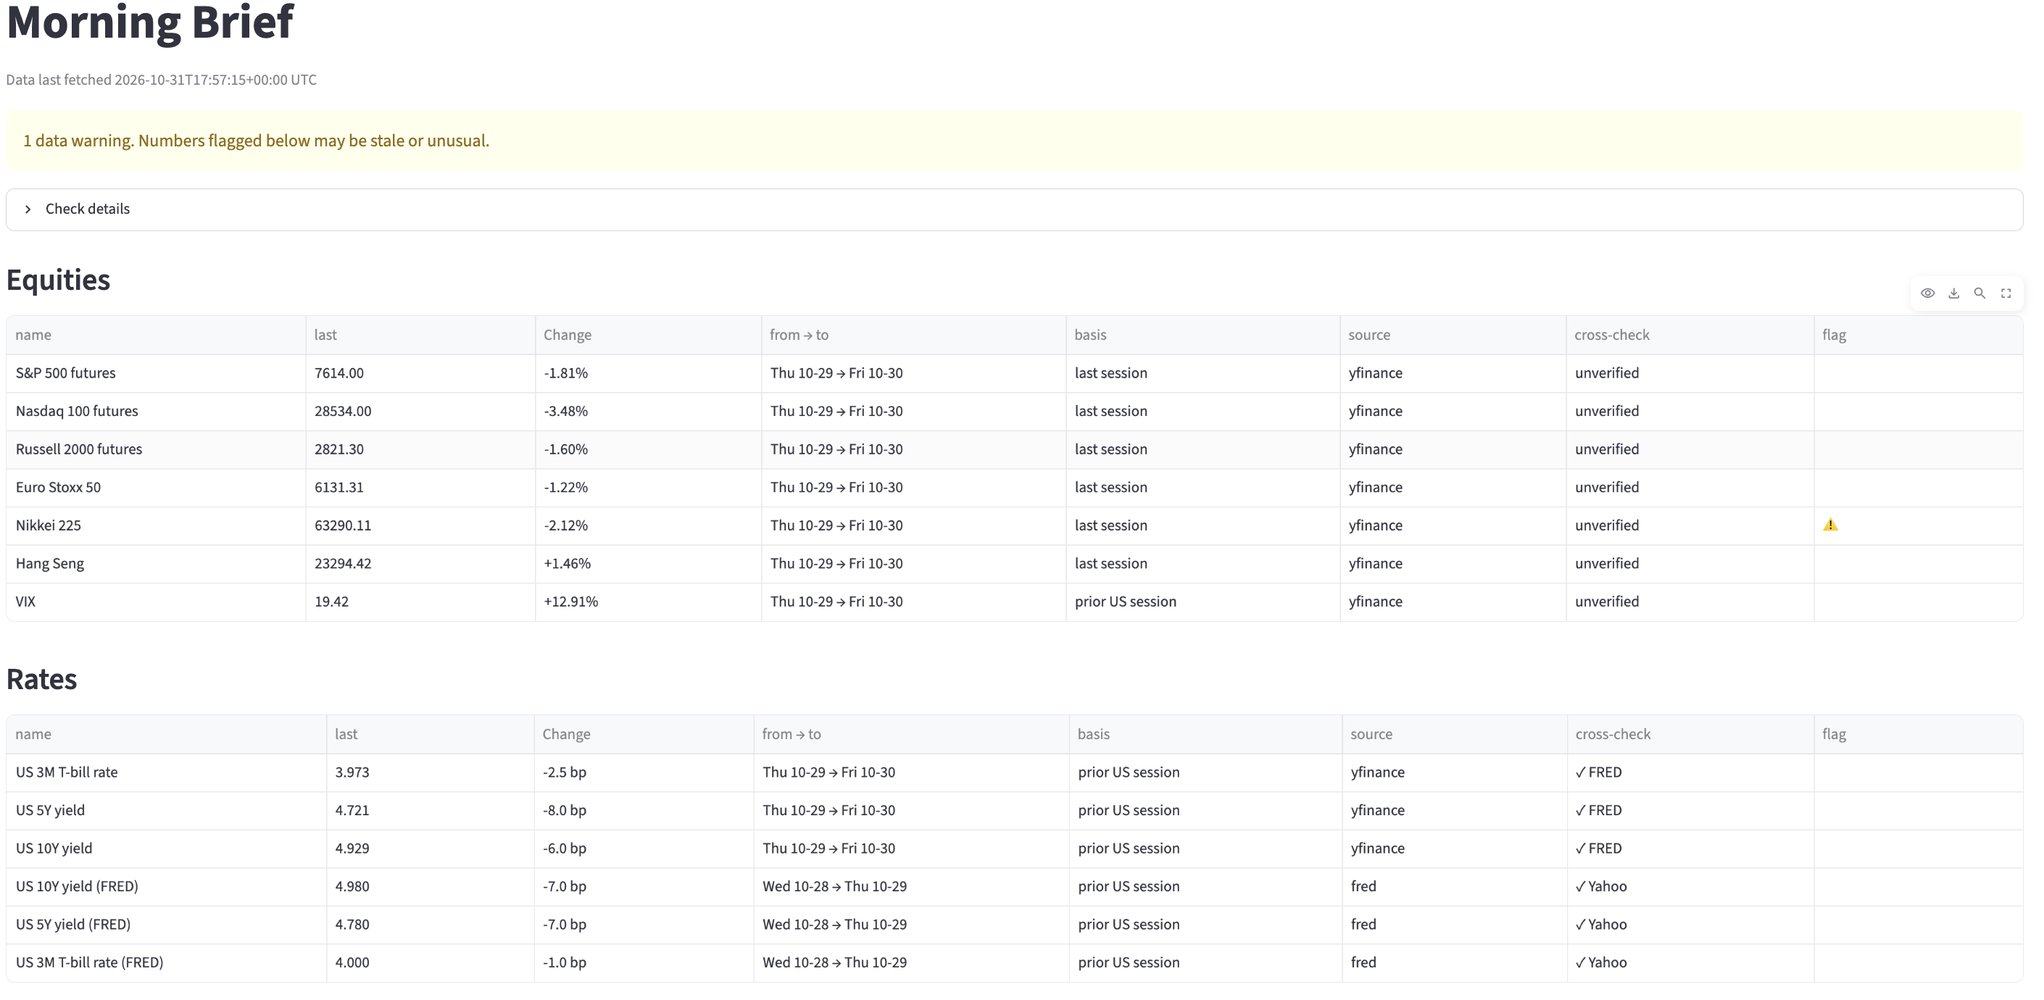
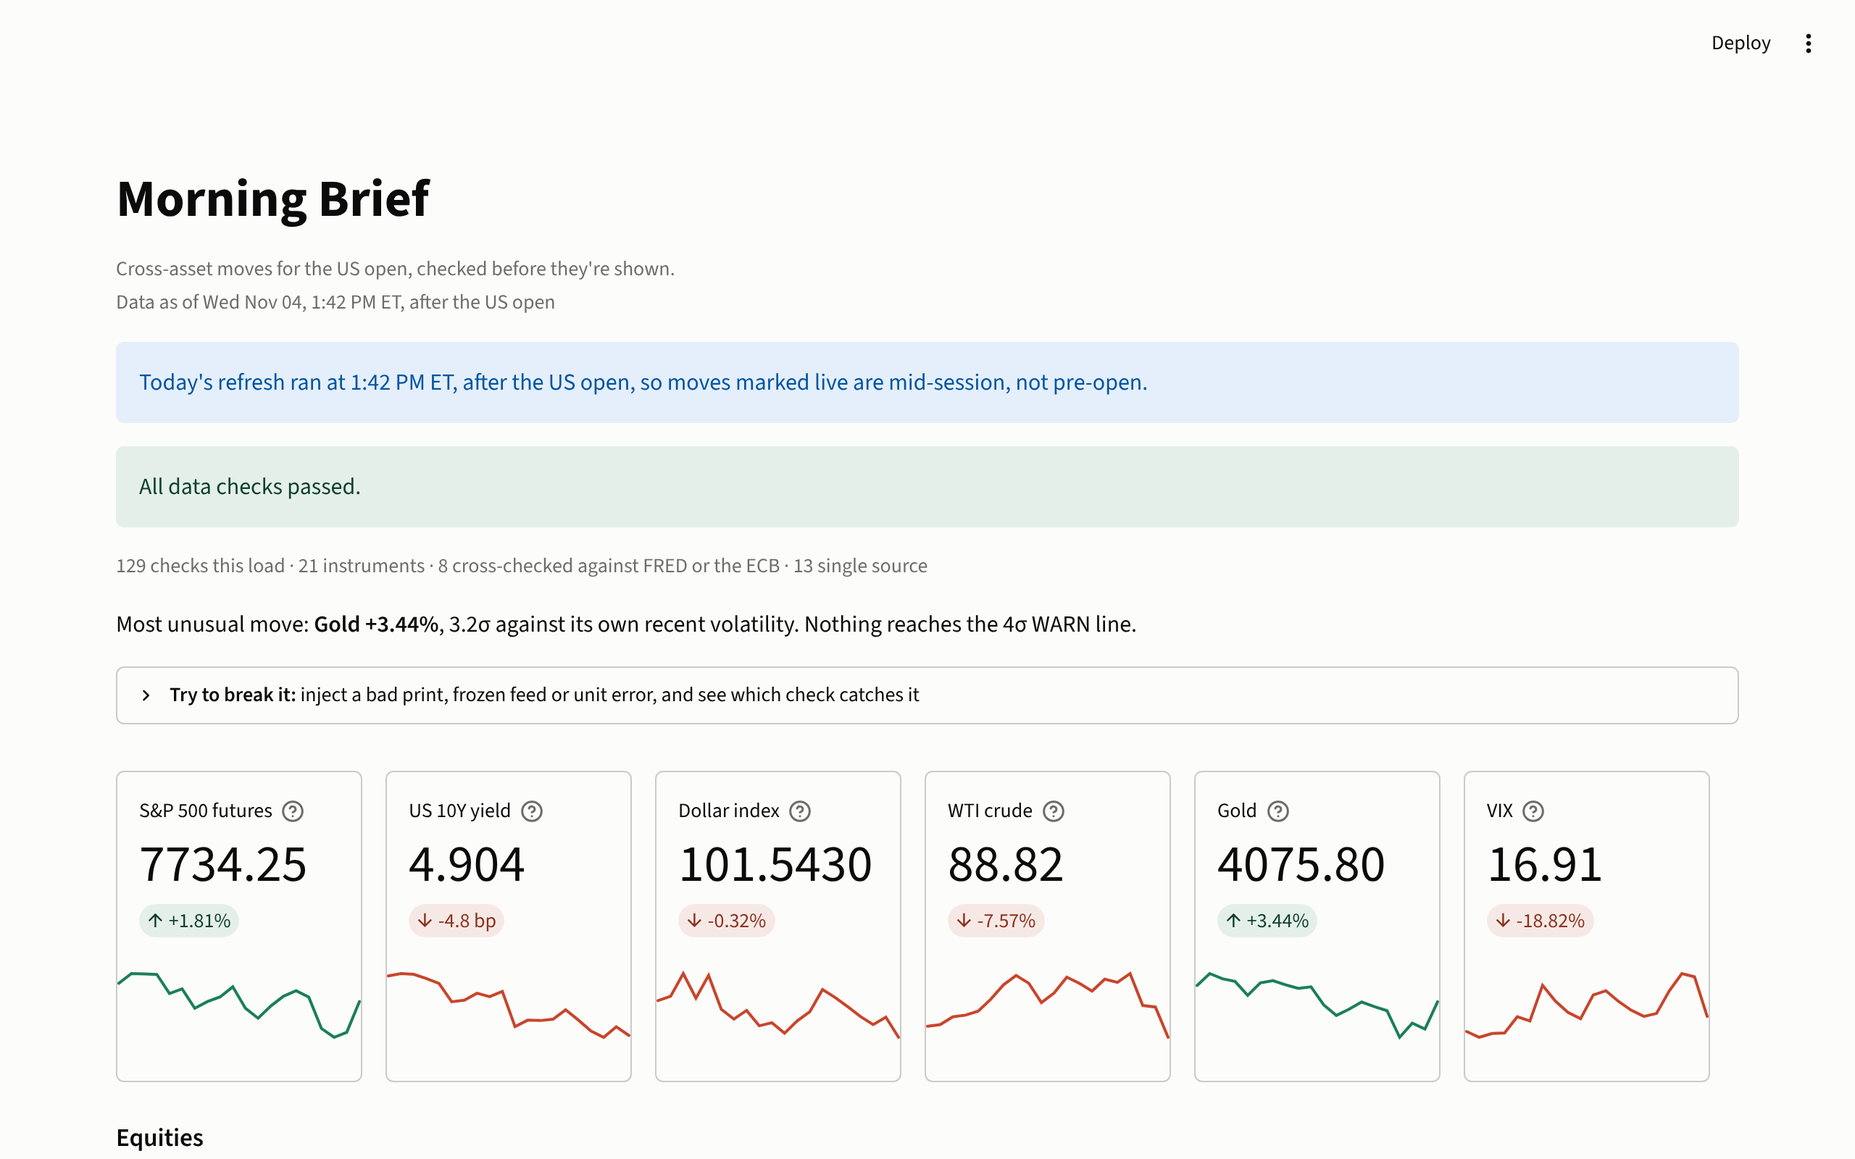
Rewrite the README for a visitor, with a demo GIF, diagram and decisions index
Opens with what the page is for and a GIF of a fault being caught, adds a
Mermaid diagram and a reliability section, fixes the sentence that
contradicted the build notes, and indexes the judgment calls. The VIX footer
now says the notice is the text FRED requires. Also records the decision to
keep the database in git, with measured growth.

Claude-Session: https://claude.ai/code/session_01S9fLmoADUZCuL7imkmqZpF

diff --git a/tests/test_docs.py b/tests/test_docs.py
@@ -1,0 +1,33 @@
+"""The README and build notes should point at things that exist and say what the code does."""
+import re
+from pathlib import Path
+
+ROOT = Path(__file__).resolve().parents[1]
+README = (ROOT / "README.md").read_text()
+NOTES = (ROOT / "docs" / "build-notes.md").read_text()
+
+
+def test_readme_links_and_images_exist():
+    for target in re.findall(r"\]\(((?!https?://)[^)#]+)\)", README):
+        assert (ROOT / target).exists(), target
+
+
+def test_readme_no_longer_claims_most_bugs_came_from_real_data():
+    assert "Most bugs only appeared on real data" not in README
+
+
+def test_judgment_index_points_at_real_entries():
+    entries = {int(n) for n in re.findall(r"^## (\d+)\. ", NOTES, re.M)}
+    index = NOTES[NOTES.index("## Judgment calls at a glance"):NOTES.index("## 1. ")]
+    cited = {int(n) for cell in re.findall(r"\| ([\d, ]+) \|\n", index) for n in cell.split(",")}
+    assert cited and cited <= entries
+
+
+def test_build_notes_are_numbered_in_order():
+    numbers = [int(n) for n in re.findall(r"^## (\d+)\. ", NOTES, re.M)]
+    assert numbers == list(range(1, len(numbers) + 1))
+
+
+def test_vix_notice_says_it_is_freds_required_text():
+    app = (ROOT / "app.py").read_text()
+    assert "as FRED requires it to be shown" in app and "Reprinted with permission" in app

diff --git a/app.py b/app.py
@@ -241,6 +241,7 @@ with st.expander("How the data checks work"):
 """)
 st.caption("Second-source data retrieved from FRED, Federal Reserve Bank of St. Louis, which does not endorse this page. "
            "VIX: Chicago Board Options Exchange, CBOE Volatility Index [VIXCLS]. "
+           "Copyright notice for this series, as FRED requires it to be shown: "
            "Copyright, 2016, Chicago Board Options Exchange, Inc. Reprinted with permission.")
 st.caption("Built from free public sources, not production market data. "
            "[Source code and build notes](https://github.com/KC31415/morning-brief)")

diff --git a/README.md b/README.md
@@ -4,23 +4,29 @@
 
 **Live app:** https://kechun-morning-brief.streamlit.app
 
-A pre-open market dashboard that puts the latest cross-asset moves and a short, sourced news brief on one page, and **tells you when its own data is wrong.**
+A pre-open cross-asset dashboard that **tells you when its own data is wrong**: stale, frozen, implausible, or disagreeing with a second source. Every number shows where it came from, when, and whether anything vouches for it.
 
-This is a public rebuild of a dashboard I built during my 2026 sales & trading internship, which 30+ traders and salespeople used every morning. That version had one real weakness: when a data source arrived late or incomplete, the page still loaded and looked normal. This version is built around fixing that. No code or data from the original is used here; everything runs on free public sources.
+![The page catching a simulated +50% bad print in gold](docs/demo.gif)
+
+## Why I built this
+
+During my 2026 sales & trading internship I built a morning dashboard that 30+ traders and salespeople used every day. Its one real weakness: when a data source arrived late or incomplete, the page still loaded and looked normal. Nobody can tell a stale number from a fresh one by looking at it.
+
+This is a public rebuild around fixing that. No code or data from the original is used; everything runs on free public sources with reuse terms I've checked.
+
+## What a visitor sees
+
+- **Data as of**, in New York time, labeled pre-open or after the open, with a yellow banner if today's pre-open refresh hasn't run by 8:00 AM ET and a red one if the data is more than a weekday old
+- **A status banner and what it covers,** e.g. "129 checks · 21 instruments · 8 cross-checked against FRED or the ECB · 13 single source"
+- **The day's most unusual move**, measured against that instrument's own volatility with the sanity check's own number, so it can't disagree with the flags
+- **Try to break it:** first a real disagreement (Yahoo vs FRED on the VIX, Feb 6, 2026) replayed through the real check, then inject your own bad print, frozen feed, stale ticker or unit error into an in-memory copy
+- **Latest change** for 21 instruments across equities, rates, FX and commodities, each with from → to dates, basis (live, last session or prior US session), source and cross-check
+- **How unusual is today?** every instrument ranked in robust standard deviations
+- **What's scheduled today** from official calendars (BEA, Census, FOMC, ECB, Treasury), stating plainly that BLS isn't covered
+- **Overnight news:** 0–5 LLM bullets from official feeds, each linked to the headlines it cites
+- **Track record:** every logged refresh, when it ran, what started it, and every WARN or FAIL the checks have raised
 
 ![screenshot](docs/screenshot.png)
-
-## What it does
-
-- **Latest change** for 21 instruments across equities, rates, FX and commodities (% change for prices, basis points for yields), each labeled with its from → to dates and basis: live, last session or prior US session
-- **Source and cross-check** on every row, showing the second source's value and date, or "single source"
-- **Data status banner** at the top: green if every check passes, yellow for warnings, red if something failed, with details on exactly which series and why
-- **Stale-page banner:** red if the last fetch is more than one business day old, whatever the checks say
-- **News brief:** 0–5 LLM-written bullets on what matters for the open, each linked to the headlines it came from
-- **How unusual is today?** every instrument ranked by its latest move in robust standard deviations, with the WARN and FAIL thresholds marked
-- **What's scheduled today:** official release, meeting and auction calendars in New York time, stating when a calendar couldn't load or a time wasn't published
-- **Try to break it:** inject a bad print, frozen feed, stale ticker or ×10 yield into an in-memory copy of the data and see which check catches it, or that none does
-- **Runs itself** every weekday before the open via GitHub Actions, opening a GitHub issue on any FAIL and closing it after the next clean run
 
 ## Data checks
 
@@ -28,14 +34,14 @@ Every refresh runs these before anything is displayed:
 
 | Check | What it catches | Example |
 |---|---|---|
-| Freshness | A feed that didn't update | Copper's latest close is 3 business days old → FAIL |
+| Freshness | A feed that didn't update | Copper's latest close is 3 sessions old → FAIL |
 | Completeness | A ticker with no stored data, too little history, or zero or missing prices | New ticker has no rows → FAIL; only 1 row → WARN |
 | Gaps | Holes in recent history | 5 missing sessions in the last 60 → WARN; market holidays don't count |
 | Sanity | Moves too large to be real | A 1%-vol asset "moves" 50% → FAIL, almost certainly bad data |
 | Frozen feed | A price that hasn't changed in two weeks | Last 10 daily changes all zero → FAIL |
 | Reconciliation | Two sources disagreeing | Yields, VIX, USD/JPY, GBP/USD and WTI vs FRED; EUR/USD vs the ECB. 10Y differs by ≥15bp → FAIL |
 
-Results are stored in a `check_runs` table, so I can query how often each feed has problems:
+Tolerances were set from measured gaps between the sources (build notes 12 and 21), not picked by hand. Results go into a `check_runs` table:
 
 ```sql
 SELECT ticker, check_name, COUNT(*) AS failures
@@ -43,25 +49,58 @@ FROM check_runs WHERE status = 'FAIL'
 GROUP BY 1, 2 ORDER BY failures DESC;
 ```
 
+## How it works
+
+```mermaid
+flowchart LR
+    subgraph trigger["Every weekday morning"]
+        W["Cloudflare Worker<br/>11:05 + 11:35 UTC"] -->|workflow_dispatch| G
+        C["GitHub cron 11:21<br/>(backup)"] --> G
+        G{"should_refresh.py<br/>already ran today?"}
+    end
+    G -->|first run only| R
+    subgraph pipeline["scripts/refresh.py"]
+        R["ingest.py<br/>Yahoo · FRED · ECB"] --> DB[("SQLite<br/>prices · check_runs<br/>refresh_runs · schedules")]
+        DB --> K["checks.py<br/>6 checks"]
+        K --> DB
+        N["news.py → summarize.py<br/>official RSS → cited bullets"]
+        S["schedules.py<br/>official calendars"] --> DB
+    end
+    K -->|any FAIL| I["GitHub issue<br/>(alert.py)"]
+    pipeline -->|commit data| GH["GitHub repo"]
+    pipeline -->|ping, or /fail| HC["Healthchecks.io<br/>emails if no ping by ~12:20 UTC"]
+    GH --> APP["Streamlit page<br/>app.py"]
+```
+
+| File | Role |
+|---|---|
+| `scripts/refresh.py` | Runs the pipeline once |
+| `src/morning_brief/checks.py` | The six checks; `run_all` is what the page and the demo both call |
+| `src/morning_brief/runs.py` | Pre-open timing, the refresh guard, the as-of label |
+| `src/morning_brief/demo.py`, `incidents.py` | Simulated faults, and the real VIX disagreement replay |
+| `src/morning_brief/history.py` | The track record |
+| `ops/scheduler/` | The Cloudflare Worker trigger and its setup steps |
+| `.github/workflows/refresh.yml` | Weekday refresh, guard, alert and heartbeat |
+| `.github/workflows/ci.yml` | Tests on the latest versions and on Streamlit 1.51, on every push and weekly |
+
+## Reliability
+
+GitHub's scheduled trigger missed the first three weekdays and then started 7h20m late, so the refresh now has three triggers and an outside monitor:
+
+- A **Cloudflare Worker** calls `workflow_dispatch` (which has started every time it's been called here) at 11:05 and 11:35 UTC; GitHub's cron at 11:21 is a backup.
+- A **guard step** lets the first automatic run of the New York day refresh and stops the rest; `concurrency` stops two runs racing on `git push`.
+- **Healthchecks.io** emails if no refresh pings by about 12:20 UTC, so a run that never starts is noticed that morning. A run that fails its checks opens a GitHub issue, which closes after the next clean run.
+- The **page itself** warns when today's pre-open refresh is missing or ran after the open.
+
+The Worker and Healthchecks need a one-time setup with my accounts ([`ops/scheduler/README.md`](ops/scheduler/README.md)); until that's done, GitHub's cron is the only trigger and the page's own banner is the only alarm.
+
 ## LLM summary guardrails
 
 - The model sees only the headlines passed in and is told not to add outside facts
 - Every bullet must cite headline IDs; bullets citing IDs that were never sent are dropped automatically
 - Prompts and raw responses are saved so summaries can be reviewed afterward
 - With no API key or on any error, the page falls back to raw headlines instead of breaking
-
-## How it works
-
-```
-scripts/refresh.py            runs the pipeline once
-  ingest.py                   yfinance + FRED + ECB -> one table
-  storage.py                  SQLite (prices, check_runs)
-  checks.py                   data quality checks
-  news.py / summarize.py      RSS headlines -> cited LLM bullets
-app.py                        Streamlit dashboard
-.github/workflows/refresh.yml weekday pre-open schedule
-.github/workflows/ci.yml      tests on every push
-```
+- Nothing else on the page uses an LLM: the headline move, the schedule and the checks are all computed
 
 ## Run it locally
 
@@ -75,16 +114,19 @@ pytest -q
 
 ## Known limitations
 
-- Freshness and gap checks use market holiday calendars matched to what each source publishes, but sources don't follow them perfectly: Yahoo's Euro Stoxx 50 skipped about 7 days in two years that Xetra's calendar counts as sessions, and FRED rates can skip or include Good Friday. One-off days can still WARN.
-- yfinance triggers a pandas deprecation warning (`sort_index(inplace=True)`) on every ticker. It clutters the log but breaks nothing today; it may fail once pandas removes that keyword.
-- Free data sources have delays and occasional bad prints. That is part of why the checks exist, but this is not production market data.
-- Sanity thresholds (4 and 10 standard deviations) are judgment calls, not tuned.
+- **BLS isn't covered:** its site returns 403 to automated requests, so CPI and jobs reports are missing from the schedule. The page says so every day.
+- **13 of 21 instruments are single source.** Nikkei's FRED series and Stooq would add more, but their terms don't allow redistribution on a public page (build note 21).
+- Freshness and gap checks use market holiday calendars matched to what each source publishes, but sources don't follow them perfectly: Yahoo's Euro Stoxx 50 skipped about 7 days in two years that Xetra counts as sessions.
+- Sanity thresholds (4 and 10 standard deviations) are judgment calls, not tuned on enough live history yet.
+- Free data sources have delays and occasional bad prints. That's part of why the checks exist, but this is not production market data.
 - I check LLM summaries by reading them against the cited headlines, not with an automated accuracy test.
 
-## What I'd do differently / next
+## What I learned / what's next
 
-The starter code passed all 21 of its tests and still couldn’t finish a real refresh: the tests used timezone-free times, and production didn’t. Since then I test with the same kinds of inputs the code sees in production, and I run against live data early. Next I’d tune the sanity thresholds on more live history, since right now they’re judgment calls. Reading the AI summaries by hand taught me that citation checks prove a headline exists, not that it supports the bullet. And I’d look for a licensed news source, because sticking to official feeds with clear reuse terms often leaves the brief empty.
+The starter code passed all 21 of its tests and still couldn't finish a real refresh: the tests used timezone-free times, and production didn't. Since then I test with the same kinds of inputs the code sees in production, and run against live data early. Some bugs only appeared on live data, like a crash when the API response started with a thinking block instead of text; most were found by testing with production-shaped inputs or by reviewing the code and the rendered page. Reading the AI summaries by hand taught me that citation checks prove a headline exists, not that it supports the bullet.
+
+Next: tune the sanity thresholds on more live history, and find a licensed news source, because sticking to official feeds often leaves the brief empty.
 
 ## Built with
 
-Python, pandas, SQLite, Streamlit and GitHub Actions, with data from yfinance, FRED, the ECB and official RSS feeds. The starter code was generated with Claude. I then used Claude Code to find and fix bugs, one commit and regression test at a time. Most bugs only appeared on real data, like a crash when the API response started with a thinking block instead of text. Each bug, how it was found, and what changed is logged in docs/build-notes.md.
+Python, pandas, SQLite, Streamlit, Altair, GitHub Actions and a Cloudflare Worker, with data from Yahoo Finance (via yfinance), FRED, the ECB and official RSS feeds and calendars. The starter code was generated with Claude. I then used Claude Code to find and fix bugs and build features, one commit and regression test at a time. Every bug, how it was found, what changed and the trade-offs are logged in [docs/build-notes.md](docs/build-notes.md), with an index of the judgment calls at the top.

diff --git a/docs/build-notes.md b/docs/build-notes.md
@@ -2,6 +2,27 @@
 
 Bugs found while building this, how each was found, and what changed.
 
+## Judgment calls at a glance
+
+The decisions an interviewer is most likely to ask about, and where each is argued.
+
+| Decision | What I chose | Why, in one line | Entry |
+|---|---|---|---|
+| Sanity check's volatility | Median absolute deviation, not standard deviation | One bad print can't inflate its own baseline; costs more false WARNs on fat tails | 6 |
+| Reconciliation tolerances | Warn just above the largest measured gap, fail at about 3x | Set from ~120 to ~500 shared days of data, not picked by hand | 12, 21 |
+| 3M T-bill reference | `DTB3`, not `DGS3MO` | Same discount-basis quoting as `^IRX`: 1bp typical gap vs 16bp | 12 |
+| "single source" wording | Not "unverified" | A single-source value isn't known to be wrong, only unchecked | 21 |
+| Nikkei cross-check | Left out | FRED's notes say redistribution needs Nikkei's permission | 21 |
+| VIX cross-check | Kept, with FRED's required notice | Treated as personal non-commercial use; one config line to remove | 21 |
+| Stooq, CNBC, Investing.com, FT, WSJ | Not used | Their terms bar redistribution, or they're subscription publishers | 19, 21 |
+| BLS (CPI, jobs) | Not covered, and the page says so daily | It returns 403 to automated requests; I didn't work around that | 19, 27 |
+| Futures holiday calendar | `XNYS`, not `CMES` | Matches the dates Yahoo actually publishes: 0 misses vs 13 | 22 |
+| News brief | 0 to 5 bullets, may be empty | A prompt demanding 3 to 5 made the model pad with speculation | 17 |
+| Schedule panel | No LLM; only times the source printed | A guessed release time on a trading page is worse than none | 27 |
+| Missed or late refresh | Outside trigger + guard + dead-man's switch | GitHub's cron missed three days, then ran 7h20m late | 28, 29, 31 |
+| Chart scale | Scaled to the data, FAIL named at the edge | Drawing a 10σ line on every quiet day left most of the chart empty | 26, 33 |
+| Database in git | Kept, for now | Simplest way to serve Streamlit Cloud; history grows about 90 KB a run | 35 |
+
 ## 1. Timezone crash in the checks
 
 - **What broke:** `refresh.py` and `app.py` pass `datetime.now(timezone.utc)` as `as_of`, but stored dates are naive. Comparing them in `bdays_between` raised `TypeError`, so no real refresh could finish the check step.
@@ -309,3 +330,16 @@ These cover one stretch of about 120 sessions, so a more stressed period could w
 - **Track record:** new `history.py` reads `check_runs` and `refresh_runs`. A new section near the bottom shows: refreshes since the first one, checks logged, WARN and FAIL counts, and how many refreshes ran pre-open on a weekday. One table merges each WARN or FAIL across runs (first seen, last seen, runs, latest detail); another lists every refresh with its New York time, trigger and timing. On the current database that reads "12 refreshes, 1,393 checks logged, 7 WARN and 0 FAIL results. 0 of 12 refreshes ran pre-open on a weekday." That's true, and it's exactly the problem in entry 31. Runs from before triggers were logged say "not recorded". I didn't backfill them from the GitHub API, because changing `brief.db` on a branch would conflict with the bot's daily data commits.
 - **Bug this exposed:** pandas stores an `IntEnum` in a DataFrame as a plain int, so the replay table's `.name` failed until it was converted back with `Status(s)`. A page test caught it.
 - **Test guard widened:** `conftest.py` only hashed files directly in `data/`, so a test writing to `data/incidents/` would have gone unnoticed. It now hashes the whole folder. The refresh test stubs `incidents.ensure`, since otherwise it would fetch from the network and write a real file.
+
+## 35. Keeping the database in git, on purpose
+
+- **The question:** the bot commits `data/brief.db` after every refresh, and a reviewer may ask whether a binary database belongs in git history.
+- **Measured:** the database is 528 KB, and about 89 KB gzipped, which is roughly what git stores per version. At one refresh per weekday that's about 23 MB a year. My first estimate, 0.5 MB a run, ignored compression and was about 6x too high.
+- **Decision:** keep it for now. Streamlit Cloud serves the repo as checked out, so committing the data is the simplest way to deploy it, with no storage service, credentials or extra failure point on page load. The alternatives (a `data` branch, a release asset, or object storage) each add a fetch that can fail when someone opens the page. I'll revisit if the repo passes about 100 MB, or if the lookback grows enough to make each version much larger.
+- **No code change.**
+
+## 36. README rewritten for a visitor
+
+- **What was wrong:** the README opened with a feature list, explained the reliability work nowhere, and had no picture of the checks in action. One sentence, "Most bugs only appeared on real data", contradicted these notes, where most bugs were found by testing with production-shaped inputs or by reading the code.
+- **What changed:** the README now opens with what the page is for, a GIF of the demo catching a +50% bad print, and why I built it. Then come what a visitor sees, the checks, a Mermaid diagram of the triggers, pipeline and alerts, a reliability section that says what still needs setup, and limitations, now including BLS and the single-source count. The contradictory sentence now says some bugs only appeared on live data and most were found by testing with production-shaped inputs or reviewing the code. The screenshot and GIF come from `docs/media/record.cjs` run against the committed data, so they show real numbers. A "Judgment calls at a glance" table at the top of this file indexes the decisions.
+- **VIX notice:** the footer printed the copyright line FRED requires for VIXCLS, ending "Reprinted with permission", which read as if I'd asked CBOE. It now says that this is the notice FRED requires to be shown, with the notice itself unchanged.
